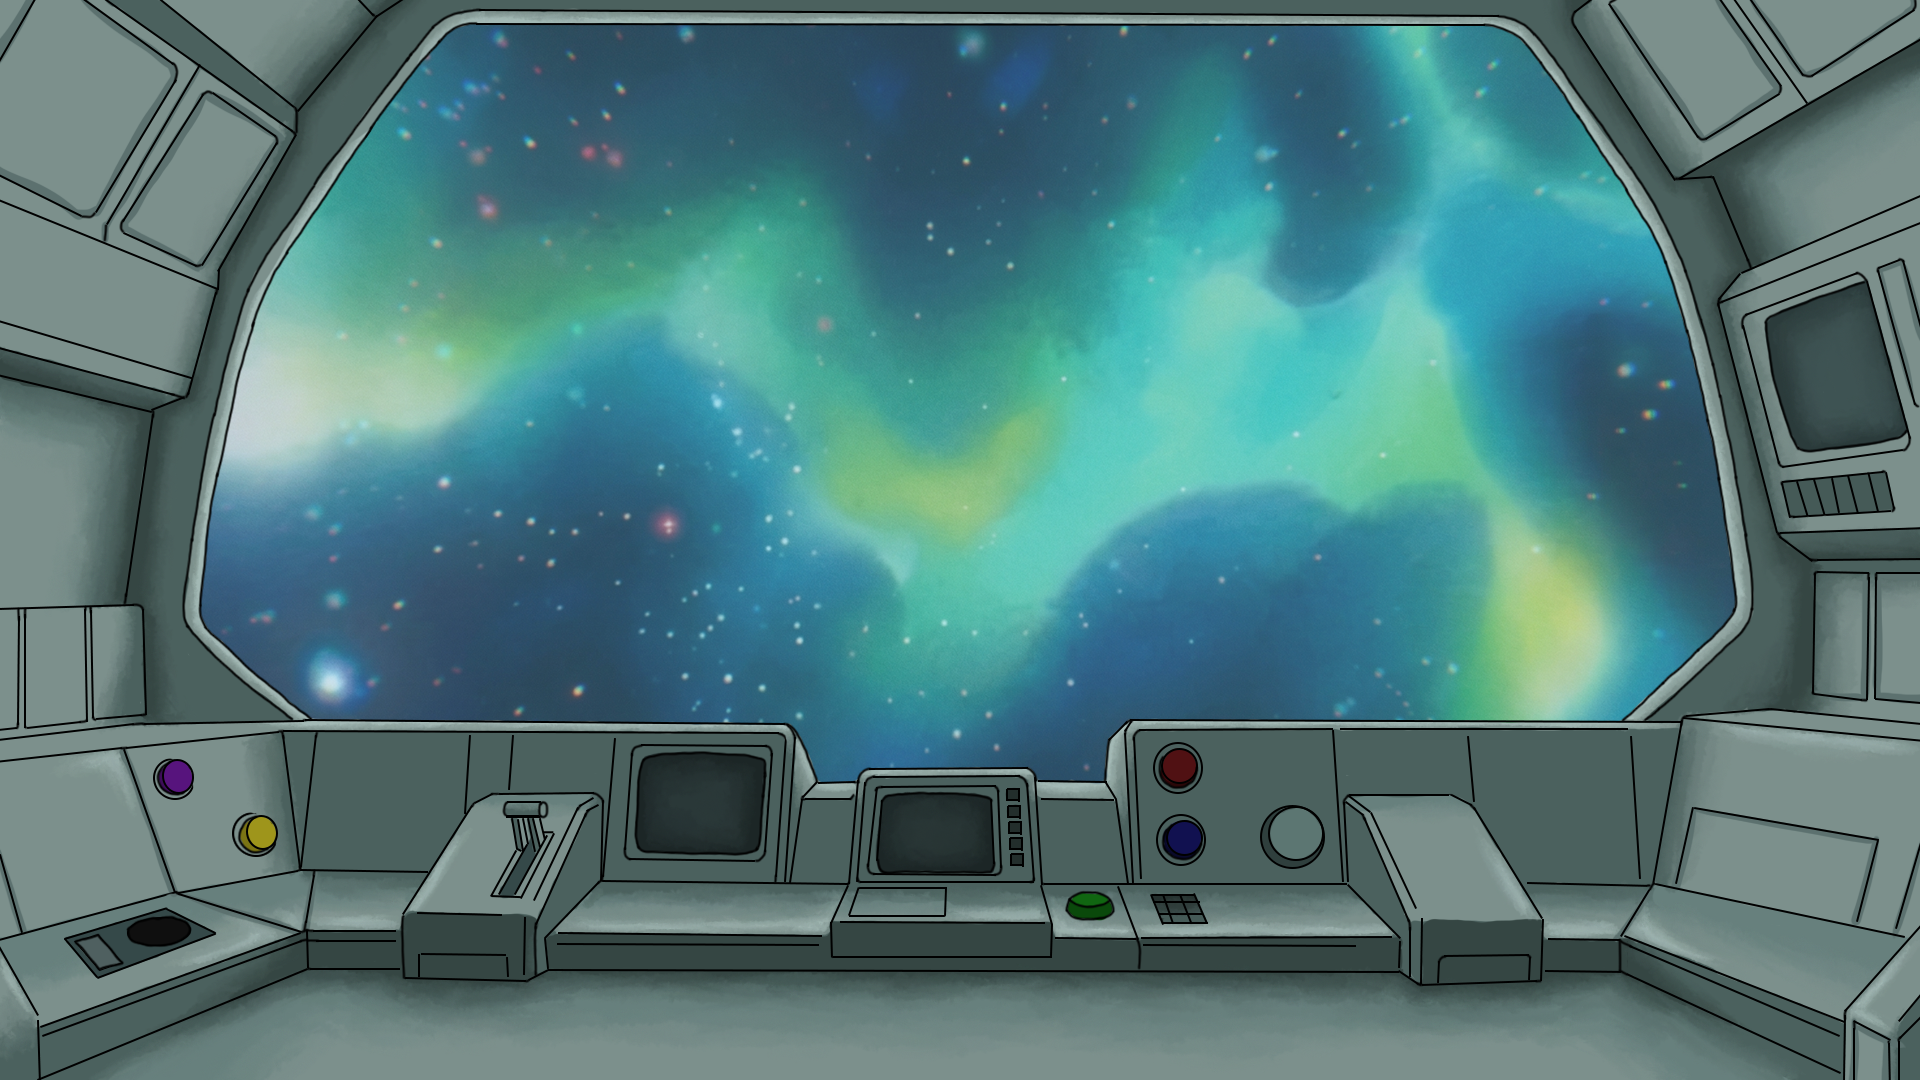
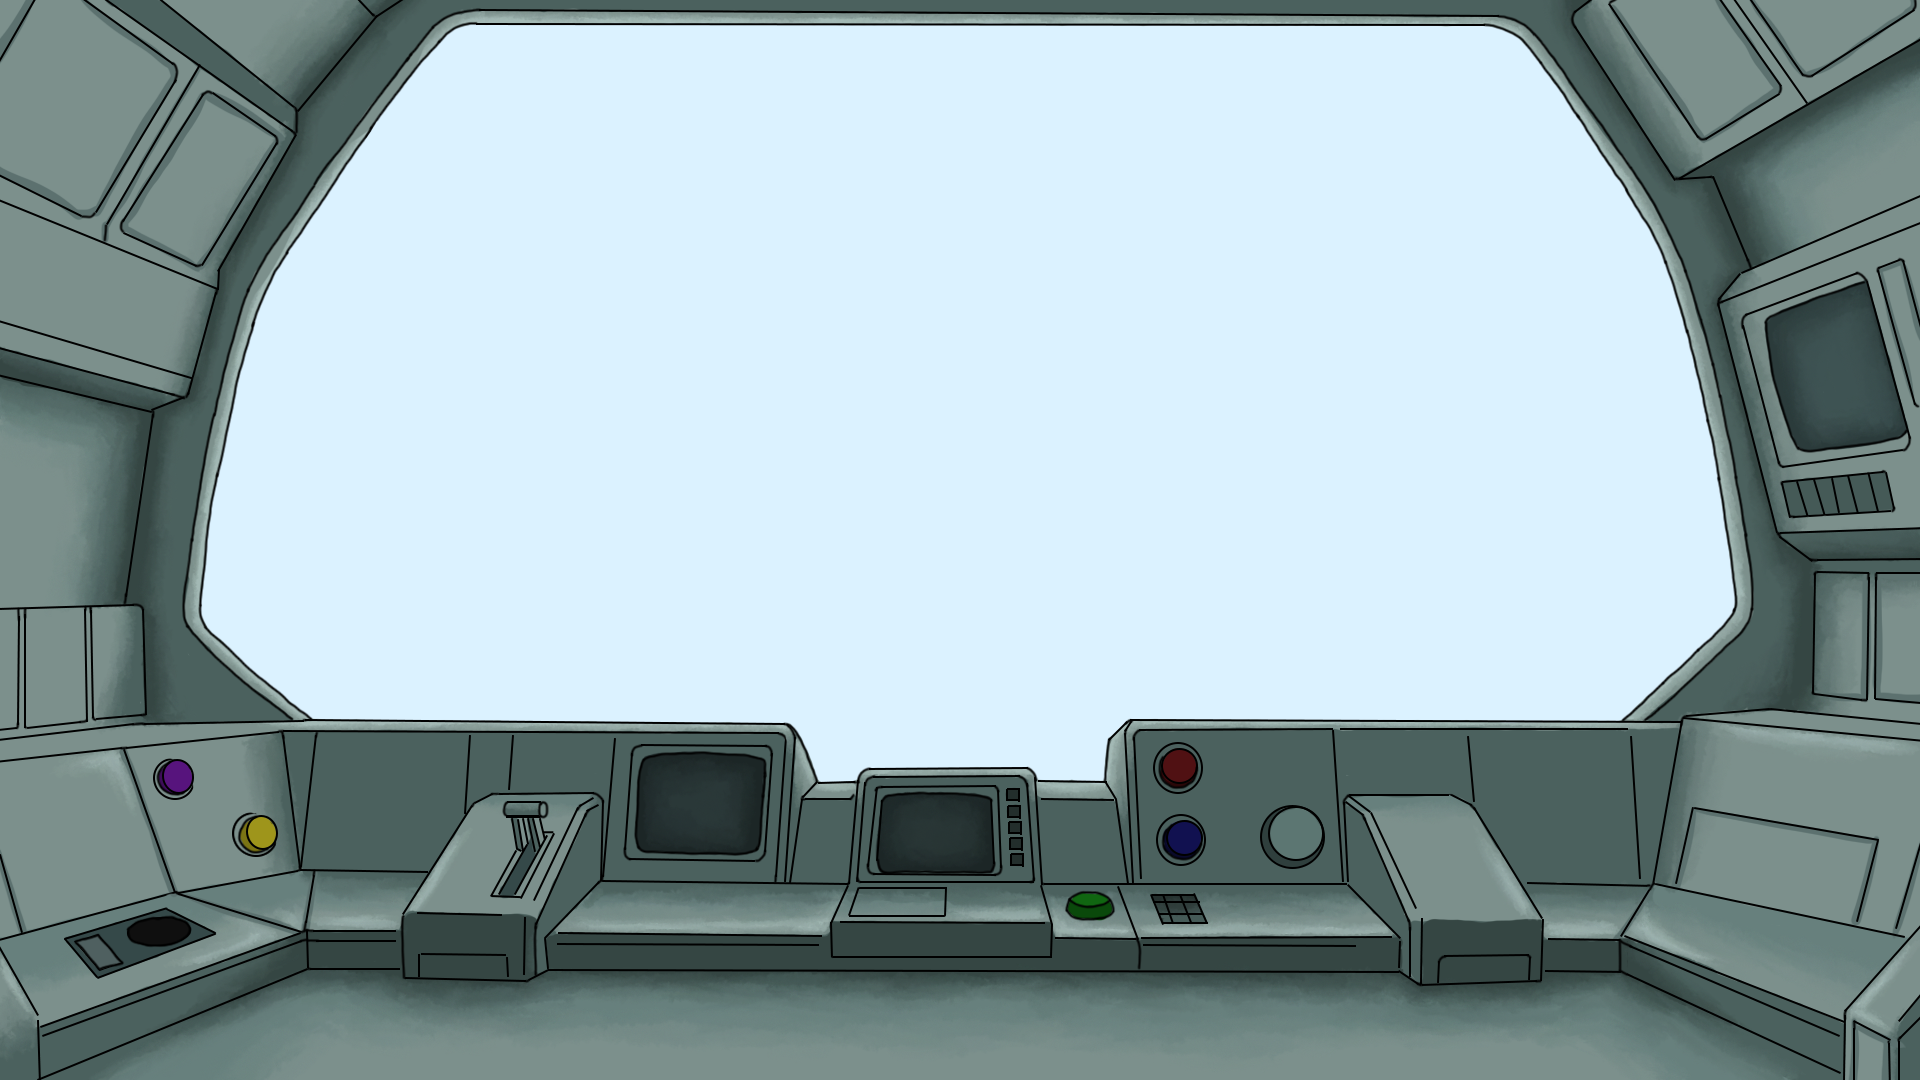
fundo nave

diff --git a/re-discovery/re-discovery/nave.js b/re-discovery/re-discovery/nave.js
@@ -41,12 +41,15 @@ let nivelVidroAnterior = 0; // Variável para monitorizar mudanças
 
 function drawNave() {
     background(0);
+    
+    image(bgMenu, 0, 0, menuNewW, menuNewH);
+
     let larguraEscalada = bgNave.width * scaleRatioNave;
     let centroX = (width - larguraEscalada) / 2;
     push(); 
     translate(centroX, 0); 
     scale(scaleRatioNave);
-    
+
     imageMode(CORNER);
     image(bgNave, 0, 0);
 

diff --git a/re-discovery/re-discovery/vitoria.js b/re-discovery/re-discovery/vitoria.js
@@ -47,6 +47,8 @@ function drawVitoriaScreen() {
     let centroX = (width - larguraEscalada) / 2;
 
     // ── CAMADA 1: NAVE ────────────────────────
+    image(bgMenu, 0, 0, menuNewW, menuNewH);
+    
     push();
     translate(centroX, 0);
     scale(scaleRatioNave);

diff --git a/re-discovery/re-discovery/tarefa2.js b/re-discovery/re-discovery/tarefa2.js
@@ -70,6 +70,7 @@ function initializeButtonsTarefa2() {
 function drawTarefa2() {
     push();
     imageMode(CENTER);
+    image(bgMenu, 0, 0, menuNewW, menuNewH);
     image(bgNave, width/2, height/2, naveNewW, naveNewH);
     pop();
 

diff --git a/re-discovery/re-discovery/tarefa1.js b/re-discovery/re-discovery/tarefa1.js
@@ -77,6 +77,7 @@ function drawTarefa1() {
     //Desenha a nave no fundo
     push();
     imageMode(CENTER);
+    image(bgMenu, 0, 0, menuNewW, menuNewH);
     image(bgNave, width/2, height/2, naveNewW, naveNewH);
     pop();
 

diff --git a/re-discovery/re-discovery/tarefa6.js b/re-discovery/re-discovery/tarefa6.js
@@ -32,6 +32,7 @@ function drawTarefa6() {
   // ── EFEITO POP-UP ──
   push();
   imageMode(CENTER);
+  image(bgMenu, 0, 0, menuNewW, menuNewH);
   image(bgNave, width / 2, height / 2, naveNewW, naveNewH);
   pop();
   

diff --git a/re-discovery/re-discovery/tarefa8.js b/re-discovery/re-discovery/tarefa8.js
@@ -41,6 +41,7 @@ function drawTarefa8() {
   // ── EFEITO POP-UP ──
   push();
   imageMode(CENTER);
+  image(bgMenu, 0, 0, menuNewW, menuNewH);
   image(bgNave, width / 2, height / 2, naveNewW, naveNewH);
   pop();
   

diff --git a/re-discovery/re-discovery/tarefa4.js b/re-discovery/re-discovery/tarefa4.js
@@ -14,6 +14,7 @@ function preloadTarefa4() {
 function setupTarefa4() {}
 
 function drawTarefa4() {
+  image(bgMenu, 0, 0, menuNewW, menuNewH);
   image(bgNave, 0, 0, width, height); 
   noStroke();
   fill(0, 0, 0, 180);

diff --git a/re-discovery/re-discovery/tarefa5.js b/re-discovery/re-discovery/tarefa5.js
@@ -35,6 +35,7 @@ function setupTarefa5() {
 function drawTarefa5() {
   push();
   imageMode(CENTER);
+  image(bgMenu, 0, 0, menuNewW, menuNewH);
   image(bgNave, width / 2, height / 2, naveNewW, naveNewH);
   pop();
 

diff --git a/re-discovery/re-discovery/tarefa7.js b/re-discovery/re-discovery/tarefa7.js
@@ -25,6 +25,7 @@ function setupTarefa7() {
 }
 
 function drawTarefa7() {
+  image(bgMenu, 0, 0, menuNewW, menuNewH);
   push();
   imageMode(CENTER);
   image(bgNave, width / 2, height / 2, naveNewW, naveNewH);

diff --git a/re-discovery/re-discovery/tarefa3.js b/re-discovery/re-discovery/tarefa3.js
@@ -28,6 +28,7 @@ function drawTarefa3() {
    
     push();
     imageMode(CENTER);
+    image(bgMenu, 0, 0, menuNewW, menuNewH);
     image(bgNave, width / 2, height / 2, naveNewW, naveNewH);
     pop();
 
